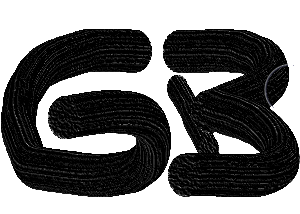
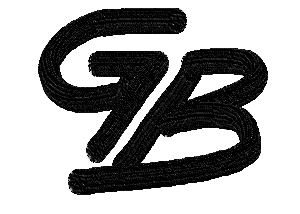
test

diff --git a/index.html b/index.html
@@ -4,7 +4,7 @@
     	<meta charset="utf-8">
     	<title>Georges Brunet</title>
     	<link rel="stylesheet" type="text/css" href="assets/css/style.css">
-    	<link rel="shortcut icon" type="image/png" href="assets/images/gabicon1.png"/>
+    	<link rel="shortcut icon" type="image/png" href="assets/images/gabicon.png"/>
     </head>
     <body>
       <h1>
